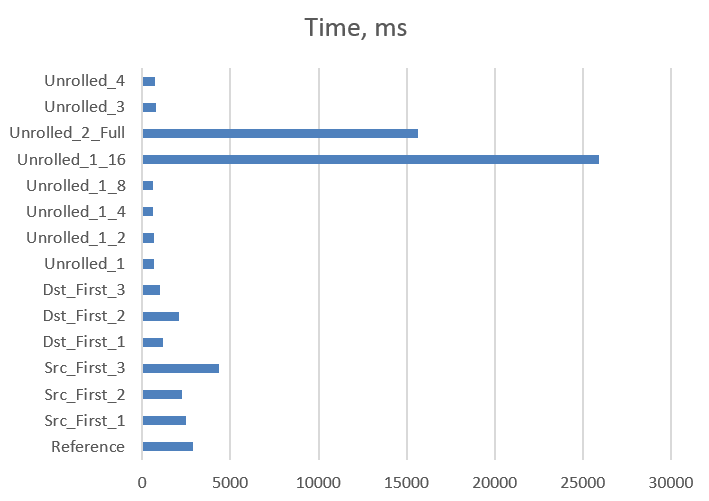
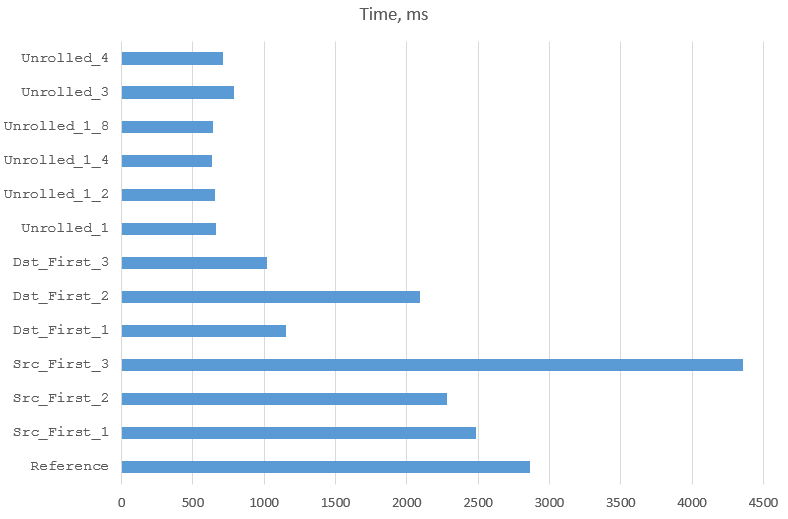
Tables formatted; graph changed in the first article

diff --git a/_posts/2014-05-15-how-to-make-C-as-fast-as-java.md b/_posts/2014-05-15-how-to-make-C-as-fast-as-java.md
@@ -15,11 +15,11 @@ we came across the example of the opposite.
 These are the versions in question and the performance data, as published at the end of
 [the last article]({{ page.ART-UNSTABLE }}):
 
-<table>
+<table style="width:100%">
 <tr><th>     Method               </th> <th>  Results in Java </th> <th>  Results in C  </th></tr>
-<tr><td><pre>Dst_First_1    </pre></td> <td><pre>  1155 </pre></td> <td><pre> 1457</pre></td></tr>
-<tr><td><pre>Dst_First_2    </pre></td> <td><pre>  2093 </pre></td> <td><pre> 1454</pre></td></tr>
-<tr><td><pre>Dst_First_3    </pre></td> <td><pre>  1022 </pre></td> <td><pre> 1464</pre></td></tr>
+<tr><td><pre>Dst_First_1    </pre></td> <td align="right"><pre>  1155 </pre></td> <td align="right"><pre> 1457</pre></td></tr>
+<tr><td><pre>Dst_First_2    </pre></td> <td align="right"><pre>  2093 </pre></td> <td align="right"><pre> 1454</pre></td></tr>
+<tr><td><pre>Dst_First_3    </pre></td> <td align="right"><pre>  1022 </pre></td> <td align="right"><pre> 1464</pre></td></tr>
 </table>
 
 We can see that `Dst_First_1` and `Dst_First_3` are faster in **Java** than in **C**. There are other irregularities
@@ -338,23 +338,23 @@ Let's try `-funroll-loops`:
 Let's put all the results into one table. The old results are taken from
 [The mystery of an unstable performance]({{ page.ART-UNSTABLE }}).
 
-<table>
+<table style="width:100%">
 <tr><th>     Version              </th> <th>  Results in Java </th> <th> Old results in C</th><th> New results in C</th></tr>
-<tr><td><pre>Reference      </pre></td> <td><pre>  2860 </pre></td> <td><pre> 1939</pre></td> <td><pre> 1604</pre></td></tr>
-<tr><td><pre>Src_First_1    </pre></td> <td><pre>  2481 </pre></td> <td><pre> 1888</pre></td> <td><pre> 1119</pre></td></tr>
-<tr><td><pre>Src_First_2    </pre></td> <td><pre>  2284 </pre></td> <td><pre> 1341</pre></td> <td><pre> 1101</pre></td></tr>
-<tr><td><pre>Src_First_3    </pre></td> <td><pre>  4360 </pre></td> <td><pre> 1891</pre></td> <td><pre> 1458</pre></td></tr>
-<tr><td><pre>Dst_First_1    </pre></td> <td><pre>  1155 </pre></td> <td><pre> 1457</pre></td> <td><pre> 1079</pre></td></tr>
-<tr><td><pre>Dst_First_1a   </pre></td> <td><pre>       </pre></td> <td><pre>     </pre></td> <td><pre>  882</pre></td></tr>
-<tr><td><pre>Dst_First_2    </pre></td> <td><pre>  2093 </pre></td> <td><pre> 1454</pre></td> <td><pre>  880</pre></td></tr>
-<tr><td><pre>Dst_First_3    </pre></td> <td><pre>  1022 </pre></td> <td><pre> 1464</pre></td> <td><pre> 1009</pre></td></tr>
-<tr><td><pre>Dst_First_3a   </pre></td> <td><pre>       </pre></td> <td><pre>     </pre></td> <td><pre>  727</pre></td></tr>
-<tr><td><pre>Unrolled_1     </pre></td> <td><pre>   659 </pre></td> <td><pre>  636</pre></td> <td><pre>  635</pre></td></tr>
-<tr><td><pre>Unrolled_1_2   </pre></td> <td><pre>   654 </pre></td> <td><pre>  634</pre></td> <td><pre>  633</pre></td></tr>
-<tr><td><pre>Unrolled_1_4   </pre></td> <td><pre>   636 </pre></td> <td><pre>  655</pre></td> <td><pre>  651</pre></td></tr>
-<tr><td><pre>Unrolled_1_8   </pre></td> <td><pre>   637 </pre></td> <td><pre>  650</pre></td> <td><pre>  648</pre></td></tr>
-<tr><td><pre>Unrolled_1_16  </pre></td> <td><pre> 25904 </pre></td> <td><pre>  635</pre></td> <td><pre>  635</pre></td></tr>
-<tr><td><pre>Unrolled_2_Full</pre></td> <td><pre> 15630 </pre></td> <td><pre>  635</pre></td> <td><pre>  635</pre></td></tr>
+<tr><td><pre>Reference      </pre></td> <td align="right"><pre>  2860 </pre></td> <td align="right"><pre> 1939</pre></td> <td align="right"><pre> 1604</pre></td></tr>
+<tr><td><pre>Src_First_1    </pre></td> <td align="right"><pre>  2481 </pre></td> <td align="right"><pre> 1888</pre></td> <td align="right"><pre> 1119</pre></td></tr>
+<tr><td><pre>Src_First_2    </pre></td> <td align="right"><pre>  2284 </pre></td> <td align="right"><pre> 1341</pre></td> <td align="right"><pre> 1101</pre></td></tr>
+<tr><td><pre>Src_First_3    </pre></td> <td align="right"><pre>  4360 </pre></td> <td align="right"><pre> 1891</pre></td> <td align="right"><pre> 1458</pre></td></tr>
+<tr><td><pre>Dst_First_1    </pre></td> <td align="right"><pre>  1155 </pre></td> <td align="right"><pre> 1457</pre></td> <td align="right"><pre> 1079</pre></td></tr>
+<tr><td><pre>Dst_First_1a   </pre></td> <td align="right"><pre>       </pre></td> <td align="right"><pre>     </pre></td> <td align="right"><pre>  882</pre></td></tr>
+<tr><td><pre>Dst_First_2    </pre></td> <td align="right"><pre>  2093 </pre></td> <td align="right"><pre> 1454</pre></td> <td align="right"><pre>  880</pre></td></tr>
+<tr><td><pre>Dst_First_3    </pre></td> <td align="right"><pre>  1022 </pre></td> <td align="right"><pre> 1464</pre></td> <td align="right"><pre> 1009</pre></td></tr>
+<tr><td><pre>Dst_First_3a   </pre></td> <td align="right"><pre>       </pre></td> <td align="right"><pre>     </pre></td> <td align="right"><pre>  727</pre></td></tr>
+<tr><td><pre>Unrolled_1     </pre></td> <td align="right"><pre>   659 </pre></td> <td align="right"><pre>  636</pre></td> <td align="right"><pre>  635</pre></td></tr>
+<tr><td><pre>Unrolled_1_2   </pre></td> <td align="right"><pre>   654 </pre></td> <td align="right"><pre>  634</pre></td> <td align="right"><pre>  633</pre></td></tr>
+<tr><td><pre>Unrolled_1_4   </pre></td> <td align="right"><pre>   636 </pre></td> <td align="right"><pre>  655</pre></td> <td align="right"><pre>  651</pre></td></tr>
+<tr><td><pre>Unrolled_1_8   </pre></td> <td align="right"><pre>   637 </pre></td> <td align="right"><pre>  650</pre></td> <td align="right"><pre>  648</pre></td></tr>
+<tr><td><pre>Unrolled_1_16  </pre></td> <td align="right"><pre> 25904 </pre></td> <td align="right"><pre>  635</pre></td> <td align="right"><pre>  635</pre></td></tr>
+<tr><td><pre>Unrolled_2_Full</pre></td> <td align="right"><pre> 15630 </pre></td> <td align="right"><pre>  635</pre></td> <td align="right"><pre>  635</pre></td></tr>
 </table>
 
 

diff --git a/_posts/2014-05-12-mystery-of-unstable-performance.md b/_posts/2014-05-12-mystery-of-unstable-performance.md
@@ -557,21 +557,21 @@ I tried to do it then but faced exactly the same instability problem with `Dst_F
 
 Let's collect the old and the new results, together with the results from **Java**, in one table:
 
-<table>
+<table style="width:100%">
 <tr><th>     Version              </th> <th>  Results in Java </th> <th> Old results in C</th><th> New results in C</th></tr>
-<tr><td><pre>Reference      </pre></td> <td><pre>  2860 </pre></td> <td><pre> 1939</pre></td> <td><pre> 1939</pre></td></tr>
-<tr><td><pre>Src_First_1    </pre></td> <td><pre>  2481 </pre></td> <td><pre> 1885</pre></td> <td><pre> 1488</pre></td></tr>
-<tr><td><pre>Src_First_2    </pre></td> <td><pre>  2284 </pre></td> <td><pre> 1924</pre></td> <td><pre> 1341</pre></td></tr>
-<tr><td><pre>Src_First_3    </pre></td> <td><pre>  4360 </pre></td> <td><pre> 1892</pre></td> <td><pre> 1891</pre></td></tr>
-<tr><td><pre>Dst_First_1    </pre></td> <td><pre>  1155 </pre></td> <td><pre> 1467</pre></td> <td><pre> 1457</pre></td></tr>
-<tr><td><pre>Dst_First_2    </pre></td> <td><pre>  2093 </pre></td> <td><pre> 1445</pre></td> <td><pre> 1454</pre></td></tr>
-<tr><td><pre>Dst_First_3    </pre></td> <td><pre>  1022 </pre></td> <td><pre> 1761</pre></td> <td><pre> 1464</pre></td></tr>
-<tr><td><pre>Unrolled_1     </pre></td> <td><pre>   659 </pre></td> <td><pre>  633</pre></td> <td><pre>  636</pre></td></tr>
-<tr><td><pre>Unrolled_1_2   </pre></td> <td><pre>   654 </pre></td> <td><pre>  634</pre></td> <td><pre>  634</pre></td></tr>
-<tr><td><pre>Unrolled_1_4   </pre></td> <td><pre>   636 </pre></td> <td><pre>  654</pre></td> <td><pre>  655</pre></td></tr>
-<tr><td><pre>Unrolled_1_8   </pre></td> <td><pre>   637 </pre></td> <td><pre>  650</pre></td> <td><pre>  650</pre></td></tr>
-<tr><td><pre>Unrolled_1_16  </pre></td> <td><pre> 25904 </pre></td> <td><pre>  635</pre></td> <td><pre>  635</pre></td></tr>
-<tr><td><pre>Unrolled_2_Full</pre></td> <td><pre> 15630 </pre></td> <td><pre>  635</pre></td> <td><pre>  635</pre></td></tr>
+<tr><td><pre>Reference      </pre></td> <td align="right"><pre>  2860 </pre></td> <td align="right"><pre> 1939</pre></td> <td align="right"><pre> 1939</pre></td></tr>
+<tr><td><pre>Src_First_1    </pre></td> <td align="right"><pre>  2481 </pre></td> <td align="right"><pre> 1885</pre></td> <td align="right"><pre> 1488</pre></td></tr>
+<tr><td><pre>Src_First_2    </pre></td> <td align="right"><pre>  2284 </pre></td> <td align="right"><pre> 1924</pre></td> <td align="right"><pre> 1341</pre></td></tr>
+<tr><td><pre>Src_First_3    </pre></td> <td align="right"><pre>  4360 </pre></td> <td align="right"><pre> 1892</pre></td> <td align="right"><pre> 1891</pre></td></tr>
+<tr><td><pre>Dst_First_1    </pre></td> <td align="right"><pre>  1155 </pre></td> <td align="right"><pre> 1467</pre></td> <td align="right"><pre> 1457</pre></td></tr>
+<tr><td><pre>Dst_First_2    </pre></td> <td align="right"><pre>  2093 </pre></td> <td align="right"><pre> 1445</pre></td> <td align="right"><pre> 1454</pre></td></tr>
+<tr><td><pre>Dst_First_3    </pre></td> <td align="right"><pre>  1022 </pre></td> <td align="right"><pre> 1761</pre></td> <td align="right"><pre> 1464</pre></td></tr>
+<tr><td><pre>Unrolled_1     </pre></td> <td align="right"><pre>   659 </pre></td> <td align="right"><pre>  633</pre></td> <td align="right"><pre>  636</pre></td></tr>
+<tr><td><pre>Unrolled_1_2   </pre></td> <td align="right"><pre>   654 </pre></td> <td align="right"><pre>  634</pre></td> <td align="right"><pre>  634</pre></td></tr>
+<tr><td><pre>Unrolled_1_4   </pre></td> <td align="right"><pre>   636 </pre></td> <td align="right"><pre>  654</pre></td> <td align="right"><pre>  655</pre></td></tr>
+<tr><td><pre>Unrolled_1_8   </pre></td> <td align="right"><pre>   637 </pre></td> <td align="right"><pre>  650</pre></td> <td align="right"><pre>  650</pre></td></tr>
+<tr><td><pre>Unrolled_1_16  </pre></td> <td align="right"><pre> 25904 </pre></td> <td align="right"><pre>  635</pre></td> <td align="right"><pre>  635</pre></td></tr>
+<tr><td><pre>Unrolled_2_Full</pre></td> <td align="right"><pre> 15630 </pre></td> <td align="right"><pre>  635</pre></td> <td align="right"><pre>  635</pre></td></tr>
 </table>
 
 Some observations:

diff --git a/_posts/2014-05-02-demultiplexing-of-e1-converting-to-C.md b/_posts/2014-05-02-demultiplexing-of-e1-converting-to-C.md
@@ -490,23 +490,23 @@ and [we can remove appropriate code]({{ site.REPO-E1-C }}/article-E1-demux-C/com
 
 Let's recall the results for **Java** version and put them together in the same table:
 
-<table>
+<table style="width:100%">
 <tr><th>     Version              </th> <th>  Results in Java </th> <th> Results in C</th></tr>
-<tr><td><pre>Reference      </pre></td> <td><pre>  2860 </pre></td> <td><pre> 1939</pre></td></tr>
-<tr><td><pre>Src_First_1    </pre></td> <td><pre>  2481 </pre></td> <td><pre> 1885</pre></td></tr>
-<tr><td><pre>Src_First_2    </pre></td> <td><pre>  2284 </pre></td> <td><pre> 1924</pre></td></tr>
-<tr><td><pre>Src_First_3    </pre></td> <td><pre>  4360 </pre></td> <td><pre> 1892</pre></td></tr>
-<tr><td><pre>Dst_First_1    </pre></td> <td><pre>  1155 </pre></td> <td><pre> 1467</pre></td></tr>
-<tr><td><pre>Dst_First_2    </pre></td> <td><pre>  2093 </pre></td> <td><pre> 1445</pre></td></tr>
-<tr><td><pre>Dst_First_3    </pre></td> <td><pre>  1022 </pre></td> <td><pre> 1761</pre></td></tr>
-<tr><td><pre>Unrolled_1     </pre></td> <td><pre>   659 </pre></td> <td><pre>  633</pre></td></tr>
-<tr><td><pre>Unrolled_1_2   </pre></td> <td><pre>   654 </pre></td> <td><pre>  634</pre></td></tr>
-<tr><td><pre>Unrolled_1_4   </pre></td> <td><pre>   636 </pre></td> <td><pre>  654</pre></td></tr>
-<tr><td><pre>Unrolled_1_8   </pre></td> <td><pre>   637 </pre></td> <td><pre>  650</pre></td></tr>
-<tr><td><pre>Unrolled_1_16  </pre></td> <td><pre> 25904 </pre></td> <td><pre>  635</pre></td></tr>
-<tr><td><pre>Unrolled_2_Full</pre></td> <td><pre> 15630 </pre></td> <td><pre>  635</pre></td></tr>
-<tr><td><pre>Unrolled_3     </pre></td> <td><pre>   790 </pre></td> <td><pre>  635</pre></td></tr>
-<tr><td><pre>Unrolled_4     </pre></td> <td><pre>   711 </pre></td> <td><pre>  655</pre></td></tr>
+<tr><td><pre>Reference      </pre></td> <td align="right"><pre>  2860 </pre></td> <td align="right"><pre> 1939</pre></td></tr>
+<tr><td><pre>Src_First_1    </pre></td> <td align="right"><pre>  2481 </pre></td> <td align="right"><pre> 1885</pre></td></tr>
+<tr><td><pre>Src_First_2    </pre></td> <td align="right"><pre>  2284 </pre></td> <td align="right"><pre> 1924</pre></td></tr>
+<tr><td><pre>Src_First_3    </pre></td> <td align="right"><pre>  4360 </pre></td> <td align="right"><pre> 1892</pre></td></tr>
+<tr><td><pre>Dst_First_1    </pre></td> <td align="right"><pre>  1155 </pre></td> <td align="right"><pre> 1467</pre></td></tr>
+<tr><td><pre>Dst_First_2    </pre></td> <td align="right"><pre>  2093 </pre></td> <td align="right"><pre> 1445</pre></td></tr>
+<tr><td><pre>Dst_First_3    </pre></td> <td align="right"><pre>  1022 </pre></td> <td align="right"><pre> 1761</pre></td></tr>
+<tr><td><pre>Unrolled_1     </pre></td> <td align="right"><pre>   659 </pre></td> <td align="right"><pre>  633</pre></td></tr>
+<tr><td><pre>Unrolled_1_2   </pre></td> <td align="right"><pre>   654 </pre></td> <td align="right"><pre>  634</pre></td></tr>
+<tr><td><pre>Unrolled_1_4   </pre></td> <td align="right"><pre>   636 </pre></td> <td align="right"><pre>  654</pre></td></tr>
+<tr><td><pre>Unrolled_1_8   </pre></td> <td align="right"><pre>   637 </pre></td> <td align="right"><pre>  650</pre></td></tr>
+<tr><td><pre>Unrolled_1_16  </pre></td> <td align="right"><pre> 25904 </pre></td> <td align="right"><pre>  635</pre></td></tr>
+<tr><td><pre>Unrolled_2_Full</pre></td> <td align="right"><pre> 15630 </pre></td> <td align="right"><pre>  635</pre></td></tr>
+<tr><td><pre>Unrolled_3     </pre></td> <td align="right"><pre>   790 </pre></td> <td align="right"><pre>  635</pre></td></tr>
+<tr><td><pre>Unrolled_4     </pre></td> <td align="right"><pre>   711 </pre></td> <td align="right"><pre>  655</pre></td></tr>
 </table>
 
 Here comes our first sensation: **C++ is not always faster than Java**. Both `Dst_First_1` and `Dst_First_3` run

diff --git a/_posts/2014-04-15-demultiplexing-of-e1.md b/_posts/2014-04-15-demultiplexing-of-e1.md
@@ -859,7 +859,7 @@ times as percentages of the time or the `Reference` solution.
 `Unrolled_3`     | Both loops unrolled; each iteration of an outer loop made into separate method      |  `  790` | ` 27.6%`
 `Unrolled_4`     | Both loops unrolled; all methods from `Unrolled_3` merged into one using parameters |  `  711` | ` 24.9%`
 
-Here are the same results as a graph:
+Here are the same results as a graph (I removed the worst performers to improve the resolution of the rest):
 
 <img src="{{ site.url }}/images/demultiplexing-of-e1-graph.png" width="709" height="501">
  
